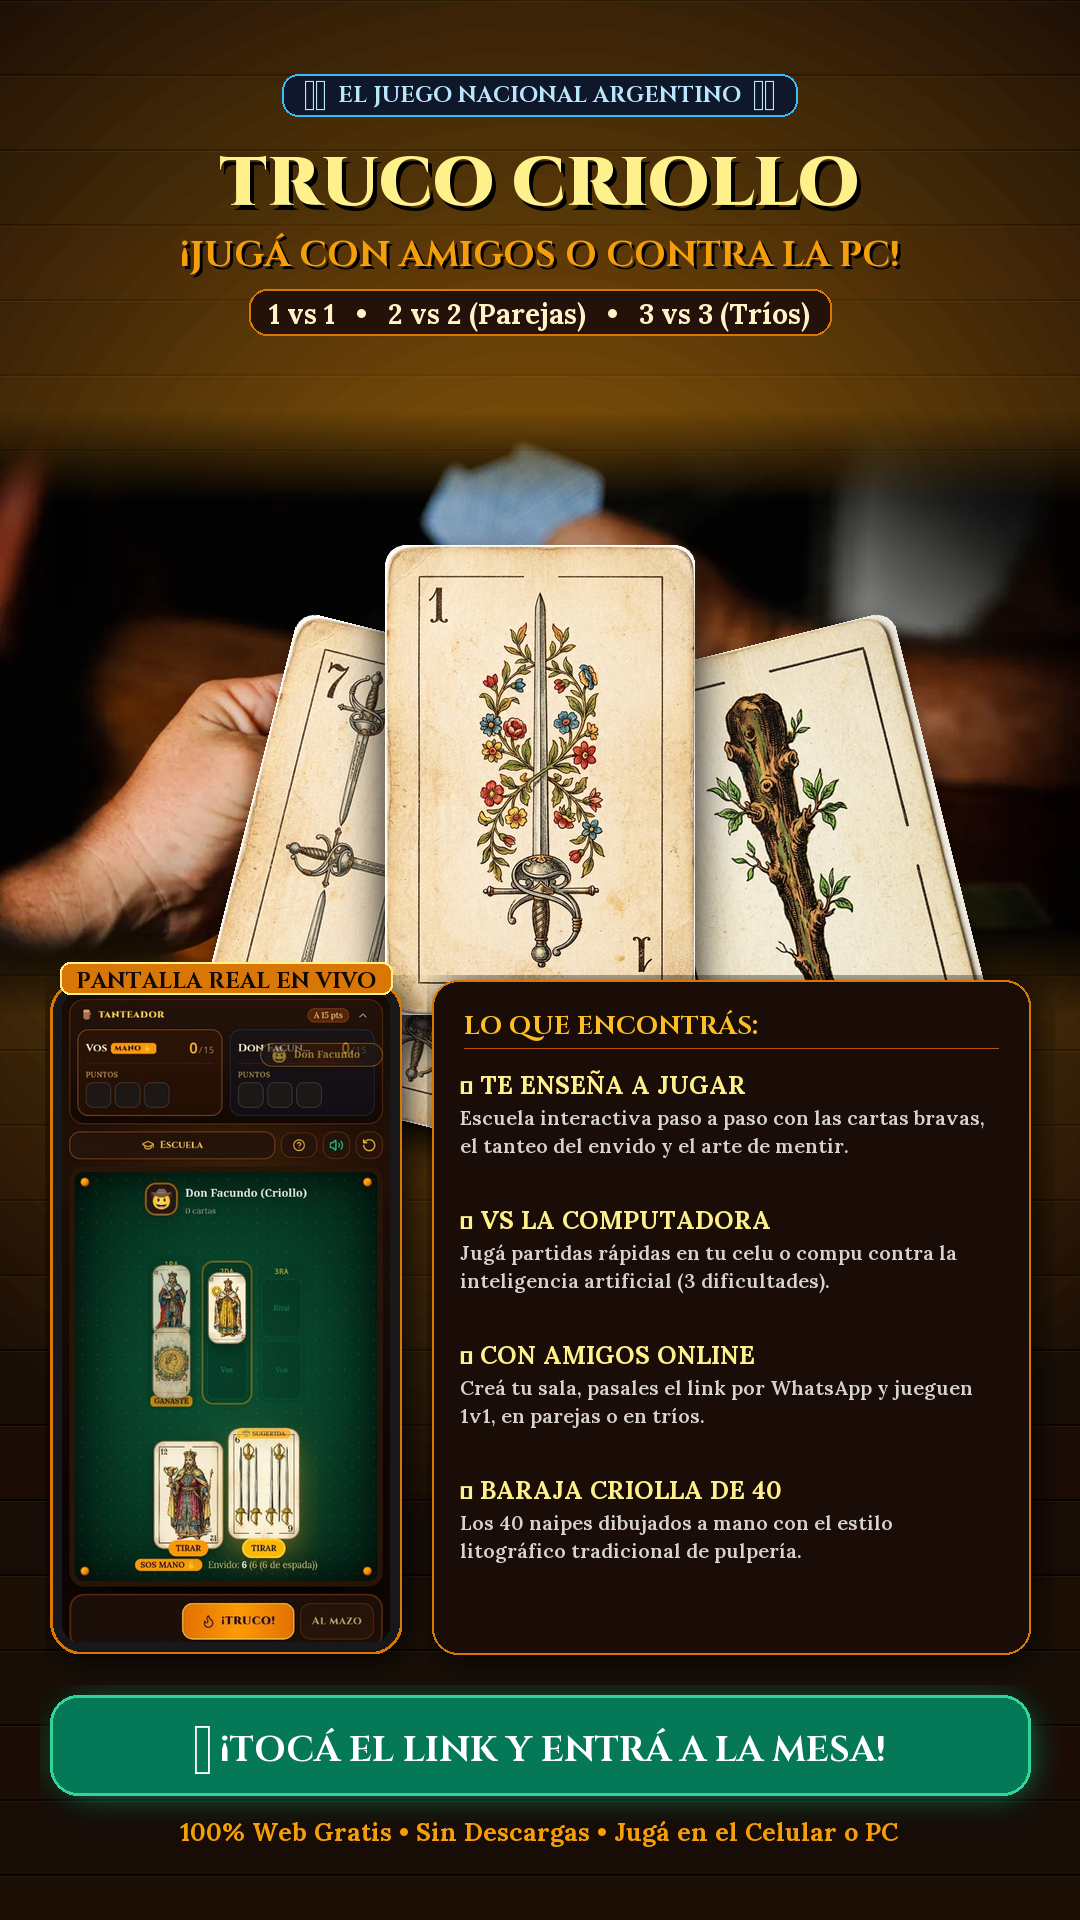
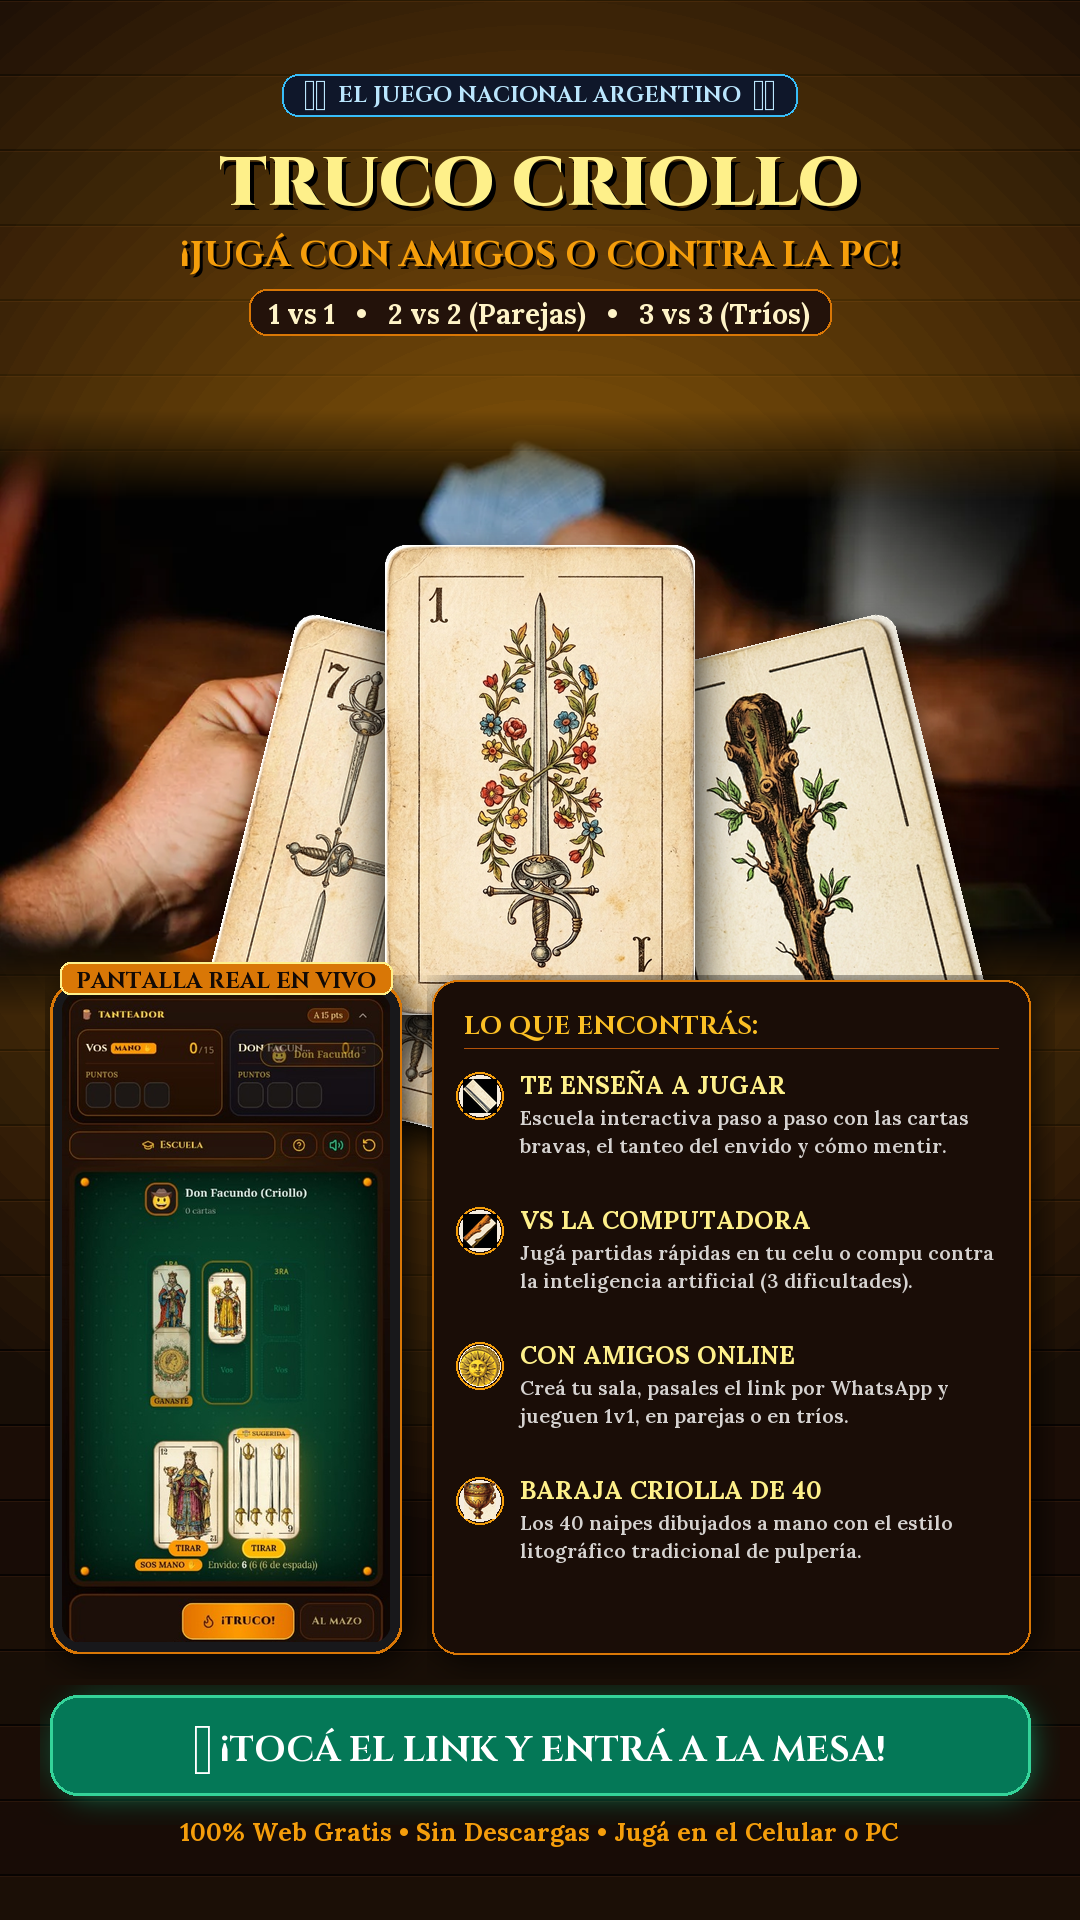
feat: reemplazar iconos en caracteristicas por los 4 palos de la baraja en historia de IG

Changed region(s): [[0.4278, 0.5625, 0.8861, 0.8125], [0.8556, 0.625, 0.8861, 0.6562]]

diff --git a/generate_story_v2.py b/generate_story_v2.py
@@ -35,12 +35,60 @@ def add_drop_shadow(img, offset=(8, 14), blur=16, shadow_color=(0, 0, 0, 220)):
     canvas.paste(img, (pad, pad), img)
     return canvas, pad
 
+def make_suit_icon(suit_name, target_size=46):
+    """Genera un medallón circular elegante con la ilustración real de cada palo."""
+    badge = Image.new('RGBA', (target_size, target_size), (0, 0, 0, 0))
+    b_draw = ImageDraw.Draw(badge)
+    
+    # Anillo exterior dorado
+    b_draw.ellipse([0, 0, target_size - 1, target_size - 1], fill=(38, 18, 8), outline=(245, 158, 11), width=2)
+    # Fondo pergamino interior
+    pad = 3
+    b_draw.ellipse([pad, pad, target_size - 1 - pad, target_size - 1 - pad], fill=(245, 237, 224))
+    
+    if suit_name == 'oro':
+        # Moneda de oro
+        o4 = Image.open('public/cards/oro_4.png')
+        coin = o4.crop((190, 210, 370, 390))
+        coin_res = coin.resize((target_size - 8, target_size - 8), Image.Resampling.LANCZOS).convert('RGBA')
+        mask = Image.new('L', (target_size - 8, target_size - 8), 0)
+        ImageDraw.Draw(mask).ellipse([0, 0, target_size - 9, target_size - 9], fill=255)
+        badge.paste(coin_res, (4, 4), mask)
+        
+    elif suit_name == 'copa':
+        # Copa dorada
+        c4 = Image.open('public/cards/copa_4.png')
+        cup = c4.crop((190, 210, 370, 420))
+        cw, ch = 32, 36
+        cup_res = cup.resize((cw, ch), Image.Resampling.LANCZOS).convert('RGBA')
+        badge.paste(cup_res, ((target_size - cw) // 2, (target_size - ch) // 2), cup_res)
+        
+    elif suit_name == 'espada':
+        # Espada cruzada en diagonal
+        e4 = Image.open('public/cards/espada_4.png')
+        sword = e4.crop((185, 185, 315, 495))
+        sword_rot = sword.rotate(45, expand=True, resample=Image.Resampling.BICUBIC)
+        sw, sh = 34, 34
+        sword_res = sword_rot.resize((sw, sh), Image.Resampling.LANCZOS).convert('RGBA')
+        badge.paste(sword_res, ((target_size - sw) // 2, (target_size - sh) // 2), sword_res)
+        
+    elif suit_name == 'basto':
+        # Basto cruzado en diagonal
+        b4 = Image.open('public/cards/basto_4.png')
+        club = b4.crop((185, 185, 315, 495))
+        club_rot = club.rotate(-45, expand=True, resample=Image.Resampling.BICUBIC)
+        bw, bh = 34, 34
+        club_res = club_rot.resize((bw, bh), Image.Resampling.LANCZOS).convert('RGBA')
+        badge.paste(club_res, ((target_size - bw) // 2, (target_size - bh) // 2), club_res)
+        
+    return badge
+
 def generate_story():
     W, H = 1080, 1920
     story = Image.new('RGB', (W, H), (14, 8, 4))
     draw = ImageDraw.Draw(story)
     
-    # TIPOGRAFÍAS DEL SITIO WEB
+    # TIPOGRAFÍAS OFICIALES DEL SITIO WEB (Cinzel y Lora)
     font_cinzel_black = ImageFont.truetype('fonts/Cinzel_900.ttf', 68)
     font_cinzel_bold = ImageFont.truetype('fonts/Cinzel_700.ttf', 36)
     font_cinzel_badge = ImageFont.truetype('fonts/Cinzel_700.ttf', 22)
@@ -150,7 +198,7 @@ def generate_story():
     c2_comp, pad2 = add_drop_shadow(c2_rot, offset=(0, 22), blur=20, shadow_color=(0, 0, 0, 240))
     story.paste(c2_comp, (W // 2 - (cw // 2) - pad2, hand_y - 25 - pad2), c2_comp)
 
-    # 5. RECUADRO IZQUIERDO: PANTALLA REAL DE JUEGO (REPLICA EXACTA DEL JUEGO)
+    # 5. RECUADRO IZQUIERDO: PANTALLA REAL DE JUEGO (REPLICA EXACTA)
     phone_pad = 12
     screen_w = 328
     screen_h = 650
@@ -159,21 +207,17 @@ def generate_story():
     phone_x = 50
     phone_y = 980
     
-    # Carcasa de celular
     phone_frame = Image.new('RGBA', (phone_w, phone_h), (0, 0, 0, 0))
     pf_draw = ImageDraw.Draw(phone_frame)
     pf_draw.rounded_rectangle([0, 0, phone_w, phone_h], radius=32, fill=(24, 24, 27), outline=(217, 119, 6), width=3)
     
-    # Extraer la pantalla real de juego subida por el usuario
+    # Captura real del juego
     game_screenshot_path = r'C:/Users/ID1539/.gemini/antigravity/brain/6ed69378-467c-4738-806b-142d07e352ac/.user_uploaded/media_1792587208105_581af75c.jpg'
     if os.path.exists(game_screenshot_path):
         real_sc = Image.open(game_screenshot_path)
-        # Recortar la interfaz exacta del juego (excluyendo la barra superior de Android y la barra de navegación)
         clean_game_ui = real_sc.crop((0, 116, 449, 1005))
-        # Escalar a la pantalla del mockup
         ui_res = clean_game_ui.resize((screen_w, screen_h), Image.Resampling.LANCZOS)
         
-        # Máscara redondeada para la pantalla
         ui_mask = Image.new('L', (screen_w * 2, screen_h * 2), 0)
         uim_draw = ImageDraw.Draw(ui_mask)
         uim_draw.rounded_rectangle([0, 0, screen_w * 2, screen_h * 2], radius=36, fill=255)
@@ -181,7 +225,6 @@ def generate_story():
         
         phone_frame.paste(ui_res, (phone_pad, phone_pad), ui_mask)
         
-    # Sombra del teléfono
     p_shadow = Image.new('RGBA', (phone_w + 30, phone_h + 30), (0, 0, 0, 0))
     ps_draw = ImageDraw.Draw(p_shadow)
     ps_draw.rounded_rectangle([10, 10, phone_w + 10, phone_h + 10], radius=32, fill=(0, 0, 0, 210))
@@ -197,13 +240,12 @@ def generate_story():
     draw.rounded_rectangle([phone_x + (phone_w - ml_w) // 2 - 16, phone_y - 18, phone_x + (phone_w + ml_w) // 2 + 16, phone_y + 14], radius=10, fill=(217, 119, 6), outline=(254, 240, 138), width=2)
     draw.text((phone_x + (phone_w - ml_w) // 2, phone_y - 14), m_label, font=font_cinzel_badge, fill=(20, 10, 5))
 
-    # 6. RECUADRO DERECHO: LAS 4 CARACTERÍSTICAS CLAVE
+    # 6. RECUADRO DERECHO: LAS 4 CARACTERÍSTICAS CON LOS 4 PALOS DE LA BARAJA
     feat_x = 432
     feat_y = 980
     feat_w = 598
     feat_h = phone_h  # Exactamente la misma altura (674px)
     
-    # Sombra del panel derecho
     f_shadow = Image.new('RGBA', (feat_w + 30, feat_h + 30), (0, 0, 0, 0))
     fs_draw = ImageDraw.Draw(f_shadow)
     fs_draw.rounded_rectangle([10, 10, feat_w + 10, feat_h + 10], radius=26, fill=(0, 0, 0, 200))
@@ -217,33 +259,45 @@ def generate_story():
     draw.text((feat_x + 32, feat_y + 28), "LO QUE ENCONTRÁS:", font=font_cinzel_card, fill=(251, 191, 36))
     draw.line([feat_x + 32, feat_y + 68, feat_x + feat_w - 32, feat_y + 68], fill=(180, 83, 9), width=1)
     
-    # LAS 4 CARACTERÍSTICAS CLAVE:
+    # LAS 4 CARACTERÍSTICAS CLAVE ASOCIADAS CADA UNA A UN PALO REAL:
+    # 1. Espadas -> Te enseña a jugar
+    # 2. Bastos -> Vs la computadora
+    # 3. Oros -> Con amigos online
+    # 4. Copas -> Baraja criolla de 40
     key_features = [
-        ("🎓 TE ENSEÑA A JUGAR", "Escuela interactiva paso a paso con las cartas bravas, el tanteo del envido y el arte de mentir."),
-        ("🤖 VS LA COMPUTADORA", "Jugá partidas rápidas en tu celu o compu contra la inteligencia artificial (3 dificultades)."),
-        ("👥 CON AMIGOS ONLINE", "Creá tu sala, pasales el link por WhatsApp y jueguen 1v1, en parejas o en tríos."),
-        ("🃏 BARAJA CRIOLLA DE 40", "Los 40 naipes dibujados a mano con el estilo litográfico tradicional de pulpería."),
+        ('espada', "TE ENSEÑA A JUGAR", "Escuela interactiva paso a paso con las cartas bravas, el tanteo del envido y cómo mentir."),
+        ('basto', "VS LA COMPUTADORA", "Jugá partidas rápidas en tu celu o compu contra la inteligencia artificial (3 dificultades)."),
+        ('oro', "CON AMIGOS ONLINE", "Creá tu sala, pasales el link por WhatsApp y jueguen 1v1, en parejas o en tríos."),
+        ('copa', "BARAJA CRIOLLA DE 40", "Los 40 naipes dibujados a mano con el estilo litográfico tradicional de pulpería."),
     ]
     
     item_y = feat_y + 88
-    for title_k, desc_k in key_features:
-        # Título en Lora Bold
-        draw.text((feat_x + 28, item_y), title_k, font=font_lora_bold, fill=(254, 240, 138))
+    badge_size = 48
+    
+    for suit_name, title_k, desc_k in key_features:
+        # Generar medallón con el palo de la baraja
+        suit_badge = make_suit_icon(suit_name, target_size=badge_size)
+        story.paste(suit_badge, (feat_x + 24, item_y + 4), suit_badge)
         
-        # Descripción en Lora Regular con wrap automático prolijo
+        # Título en Lora Bold (con sangría para el icono del palo)
+        text_x = feat_x + 24 + badge_size + 16
+        draw.text((text_x, item_y), title_k, font=font_lora_bold, fill=(254, 240, 138))
+        
+        # Descripción en Lora Regular con wrap automático
+        max_desc_w = feat_w - (badge_size + 16 + 48)
         words = desc_k.split(' ')
         line1, line2 = '', ''
         for w in words:
             test_line = (line1 + ' ' + w).strip()
             tb = draw.textbbox((0, 0), test_line, font=font_lora_desc)
-            if (tb[2] - tb[0]) < (feat_w - 55) and not line2:
+            if (tb[2] - tb[0]) < max_desc_w and not line2:
                 line1 = test_line
             else:
                 line2 = (line2 + ' ' + w).strip()
                 
-        draw.text((feat_x + 28, item_y + 36), line1, font=font_lora_desc, fill=(214, 211, 209))
+        draw.text((text_x, item_y + 36), line1, font=font_lora_desc, fill=(214, 211, 209))
         if line2:
-            draw.text((feat_x + 28, item_y + 64), line2, font=font_lora_desc, fill=(214, 211, 209))
+            draw.text((text_x, item_y + 64), line2, font=font_lora_desc, fill=(214, 211, 209))
             
         item_y += 135
 
@@ -253,14 +307,12 @@ def generate_story():
     cta_x = (W - cta_w) // 2
     cta_y = 1695
     
-    # Resplandor verde esmeralda
     cta_glow = Image.new('RGBA', (cta_w + 40, cta_h + 40), (0, 0, 0, 0))
     cg_draw = ImageDraw.Draw(cta_glow)
     cg_draw.rounded_rectangle([10, 10, cta_w + 20, cta_h + 20], radius=34, fill=(16, 185, 129, 160))
     cta_glow = cta_glow.filter(ImageFilter.GaussianBlur(18))
     story.paste(cta_glow, (cta_x - 10, cta_y - 10), cta_glow)
     
-    # Botón CTA en Cinzel Bold
     draw.rounded_rectangle([cta_x, cta_y, cta_x + cta_w, cta_y + cta_h], radius=28, fill=(4, 120, 87), outline=(52, 211, 153), width=3)
     
     cta_label = "👉 ¡TOCÁ EL LINK Y ENTRÁ A LA MESA!"
@@ -268,7 +320,6 @@ def generate_story():
     cl_w = cl_box[2] - cl_box[0]
     draw.text(((W - cl_w) // 2, cta_y + 30), cta_label, font=font_cinzel_cta, fill=(255, 255, 255))
     
-    # Subtexto final Lora
     sub_foot = "100% Web Gratis • Sin Descargas • Jugá en el Celular o PC"
     sf_box = draw.textbbox((0, 0), sub_foot, font=font_lora_bold)
     sf_w = sf_box[2] - sf_box[0]

diff --git a/download_fonts.py b/download_fonts.py
@@ -22,3 +22,4 @@ for b in blocks:
     print(f'Done: {filename}')
 
 print('All site fonts downloaded successfully!')
+

diff --git a/generate_story.py b/generate_story.py
@@ -244,3 +244,4 @@ def create_instagram_story():
 
 if __name__ == '__main__':
     create_instagram_story()
+
